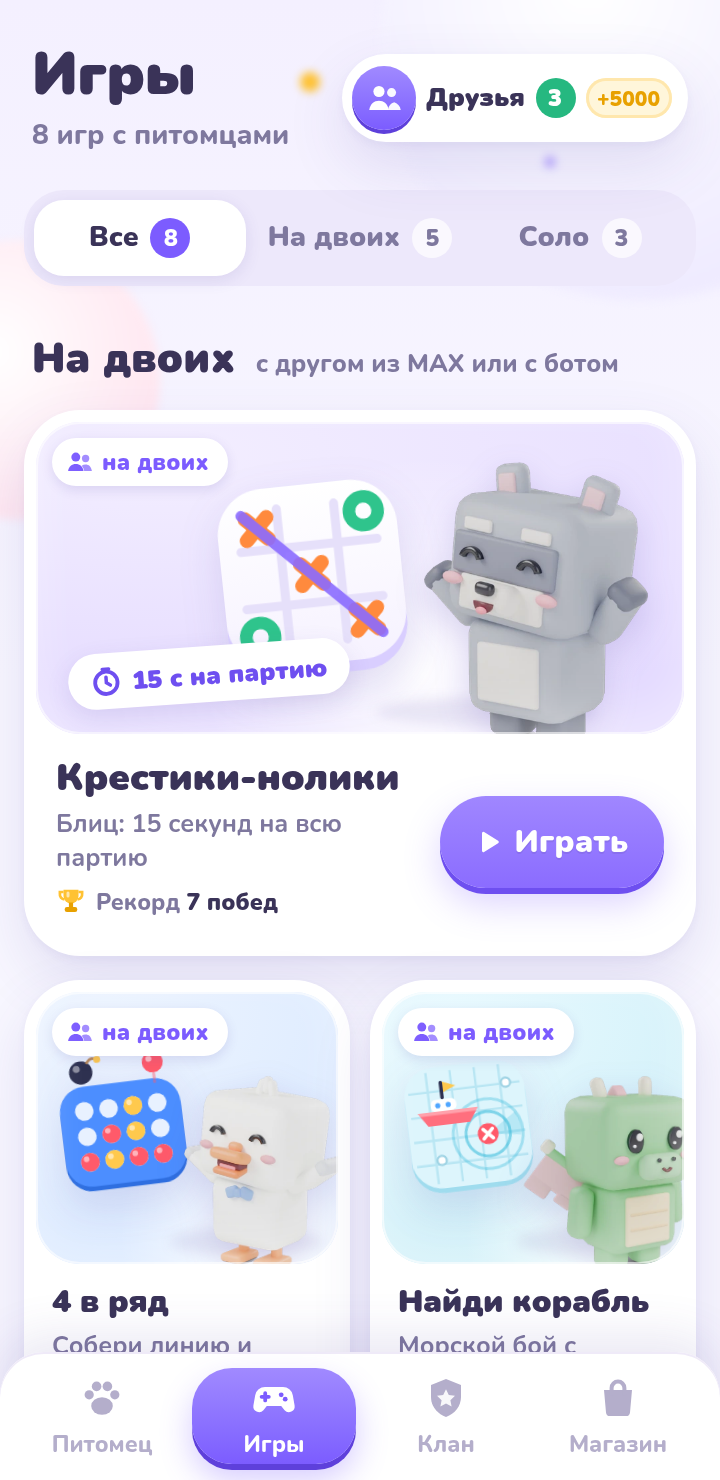
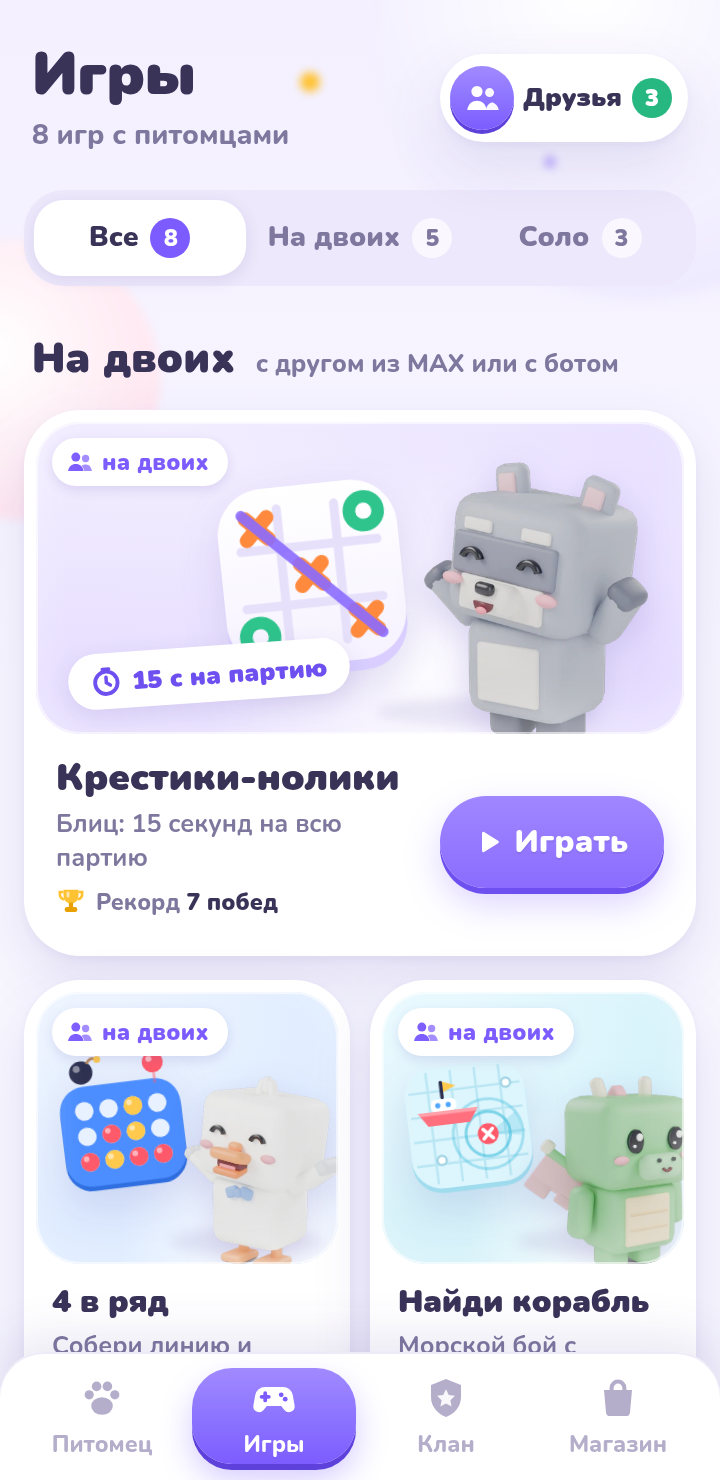
Remove the +5000 badge from the compact Друзья pill on the Игры tab.
The header button now shows only the label and the online count. The +5000 reward stays on the Friends screen invite button. Cache-bust ?v=tc11141101.

Changed region(s): [[0.4889, 0.0311, 0.9472, 0.0932]]

diff --git a/tapyshi-concept/games/shared/screens.js b/tapyshi-concept/games/shared/screens.js
@@ -43,7 +43,7 @@ function card(g,wide){
 function catalog(){
   var duo=G.filter(function(g){return g.mode==='duo'}),solo=G.filter(function(g){return g.mode==='solo'});
   return '<div class="bgdeco" aria-hidden="true"><i class="b1"></i><i class="b2"></i><i class="b3"></i></div><main class="page">'+
-  '<header class="top"><div class="ttl"><h1>Игры</h1><p>8 игр с питомцами</p></div><button type="button" class="friends-btn spring" data-act="friends" aria-label="Друзья, 3 в сети, +5000 за друга"><span class="ic">'+IC.people+'</span><span>Друзья</span><span class="on-n">3</span><span class="rw">+5000</span></button></header>'+
+  '<header class="top"><div class="ttl"><h1>Игры</h1><p>8 игр с питомцами</p></div><button type="button" class="friends-btn spring" data-act="friends" aria-label="Друзья, 3 в сети"><span class="ic">'+IC.people+'</span><span>Друзья</span><span class="on-n">3</span></button></header>'+
   '<div class="seg"><button class="spring on" data-f="all">Все <em>8</em></button><button class="spring" data-f="duo">На двоих <em>5</em></button><button class="spring" data-f="solo">Соло <em>3</em></button></div>'+
   '<section class="sec" data-sec="duo"><div class="sech"><h2>На двоих</h2><span>с другом из MAX или с ботом</span></div><div class="grid">'+duo.map(function(g,i){return card(g,!i)}).join('')+'</div></section>'+
   '<section class="sec" data-sec="solo"><div class="sech"><h2>Соло</h2><span>головоломки на рекорд</span></div><div class="grid">'+solo.map(function(g,i){return card(g,!i)}).join('')+'</div></section>'+

diff --git a/tapyshi-concept/games/catalog-a/style.css b/tapyshi-concept/games/catalog-a/style.css
@@ -86,7 +86,6 @@ body{background:linear-gradient(180deg,var(--bg-tint) 0,var(--bg) 340px,var(--bg
 .friends-btn .ic{width:36px;height:36px;border-radius:50%;display:grid;place-items:center;color:var(--white);background:linear-gradient(180deg,color-mix(in srgb,var(--violet) 72%,var(--white)),var(--violet));box-shadow:0 2px 0 var(--violet-edge);flex:none}
 .friends-btn .ic svg{width:18px;height:18px}
 .friends-btn .on-n{min-width:20px;height:20px;padding:0 6px;border-radius:10px;background:var(--green);color:var(--white);font-size:11.5px;font-weight:1000;display:grid;place-items:center;line-height:1}
-.friends-btn .rw{height:20px;padding:0 7px;border-radius:10px;background:var(--sun-soft);color:var(--sun-edge);font-size:11px;font-weight:900;display:grid;place-items:center;box-shadow:inset 0 0 0 1.5px color-mix(in srgb,var(--sun) 40%,var(--white))}
 .fr-demos{display:flex;flex-wrap:wrap;justify-content:center;gap:8px 16px;margin:16px 0 0;padding:0;border:0}
 .fr-demos .inv-demo{background:none;border:0;padding:0;cursor:pointer;font:inherit}
 .invite--wide{width:100%;justify-content:flex-start;margin:4px 0 14px;min-height:54px;padding-right:16px}
@@ -134,7 +133,6 @@ body{background:linear-gradient(180deg,var(--bg-tint) 0,var(--bg) 340px,var(--bg
 @media (max-width:370px){
   .friends-btn{height:44px;padding:0 8px 0 5px;gap:5px;font-size:13px}
   .friends-btn .ic{width:32px;height:32px}
-  .friends-btn .rw{padding:0 6px;font-size:10.5px}
   .fr-row{grid-template-columns:46px 1fr auto;padding:8px 10px;gap:8px}
   .fr-ava{width:46px;height:46px}
   .fr-ava img{width:40px;height:40px}

diff --git a/tapyshi-concept/games/index.html b/tapyshi-concept/games/index.html
@@ -4,18 +4,18 @@
 <meta charset="utf-8">
 <meta name="viewport" content="width=device-width, initial-scale=1, viewport-fit=cover">
 <title>Тапыши · Игры</title>
-<link rel="stylesheet" href="shared/tokens.css?v=tc11140250">
-<link rel="stylesheet" href="shared/components.css?v=tc11140250">
-<link rel="stylesheet" href="catalog-a/style.css?v=tc11140250">
-<link rel="stylesheet" href="shared/screens.css?v=tc11140250">
+<link rel="stylesheet" href="shared/tokens.css?v=tc11141101">
+<link rel="stylesheet" href="shared/components.css?v=tc11141101">
+<link rel="stylesheet" href="catalog-a/style.css?v=tc11141101">
+<link rel="stylesheet" href="shared/screens.css?v=tc11141101">
 </head>
 <body>
 <div id="app"></div>
 <script>window.TAP_PROTO=1;window.TAP_BASE='shared/';</script>
-<script src="shared/games.js?v=tc11140250"></script>
-<script src="shared/screens.js?v=tc11140250"></script>
-<script src="../shared/nav.js?v=tc11140250"></script>
-<script src="../shared/invite.js?v=tc11140250"></script>
-<script src="proto.js?v=tc11140250"></script>
+<script src="shared/games.js?v=tc11141101"></script>
+<script src="shared/screens.js?v=tc11141101"></script>
+<script src="../shared/nav.js?v=tc11141101"></script>
+<script src="../shared/invite.js?v=tc11141101"></script>
+<script src="proto.js?v=tc11141101"></script>
 </body>
 </html>
